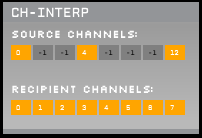
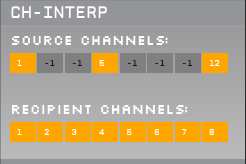
channel numbering now starts with 1

diff --git a/Source/ChInterpEditor.cpp b/Source/ChInterpEditor.cpp
@@ -13,84 +13,84 @@ ChInterpEditor::ChInterpEditor(GenericProcessor* parentNode, bool useDefaultPara
    ogChannel_label->setColour(Label::textColourId, Colours::white);
    addAndMakeVisible(ogChannel_label);
 
-   ogChannel_0 = new Label("Og Channel 0", "0");
+   ogChannel_0 = new Label("Og Channel 1", "1");
    ogChannel_0->setBounds(10,45,20,15);
    ogChannel_0->setFont(Font("Default", 8, Font::plain));
    ogChannel_0->setColour(Label::textColourId, Colours::white);
    ogChannel_0->setColour(Label::backgroundColourId, Colours::orange);
    ogChannel_0->setEditable(true);
    ogChannel_0->addListener(this);
-   ogChannel_0->setTooltip("Set the source channel 0 for interpolation");
+   ogChannel_0->setTooltip("Set the source channel 1 for interpolation");
    addAndMakeVisible(ogChannel_0);
 
-   ogChannel_1 = new Label("Og Channel 1", "-1");
+   ogChannel_1 = new Label("Og Channel 2", "-1");
    ogChannel_1->setBounds(32,45,20,15);
    ogChannel_1->setFont(Font("Default", 8, Font::plain));
    ogChannel_1->setColour(Label::textColourId, Colours::black);
    ogChannel_1->setColour(Label::backgroundColourId, Colours::grey);
    ogChannel_1->setEditable(true);
    ogChannel_1->addListener(this);
-   ogChannel_1->setTooltip("Set the source channel 1 for interpolation");
+   ogChannel_1->setTooltip("Set the source channel 2 for interpolation");
    addAndMakeVisible(ogChannel_1);
 
-   ogChannel_2 = new Label("Og Channel 2", "-1");
+   ogChannel_2 = new Label("Og Channel 3", "-1");
    ogChannel_2->setBounds(54,45,20,15);
    ogChannel_2->setFont(Font("Default", 8, Font::plain));
    ogChannel_2->setColour(Label::textColourId, Colours::black);
    ogChannel_2->setColour(Label::backgroundColourId, Colours::grey);
    ogChannel_2->setEditable(true);
    ogChannel_2->addListener(this);
-   ogChannel_2->setTooltip("Set the source channel 2 for interpolation");
+   ogChannel_2->setTooltip("Set the source channel 3 for interpolation");
    addAndMakeVisible(ogChannel_2);
 
-   ogChannel_3 = new Label("Og Channel 3", "3");
+   ogChannel_3 = new Label("Og Channel 4", "4");
    ogChannel_3->setBounds(76,45,20,15);
    ogChannel_3->setFont(Font("Default", 8, Font::plain));
    ogChannel_3->setColour(Label::textColourId, Colours::white);
    ogChannel_3->setColour(Label::backgroundColourId, Colours::orange);
    ogChannel_3->setEditable(true);
    ogChannel_3->addListener(this);
-   ogChannel_3->setTooltip("Set the source channel 1 for interpolation");
+   ogChannel_3->setTooltip("Set the source channel 4 for interpolation");
    addAndMakeVisible(ogChannel_3);
 
-   ogChannel_4 = new Label("Og Channel 4", "-1");
+   ogChannel_4 = new Label("Og Channel 5", "-1");
    ogChannel_4->setBounds(98,45,20,15);
    ogChannel_4->setFont(Font("Default", 8, Font::plain));
    ogChannel_4->setColour(Label::textColourId, Colours::black);
    ogChannel_4->setColour(Label::backgroundColourId, Colours::grey);
    ogChannel_4->setEditable(true);
    ogChannel_4->addListener(this);
-   ogChannel_4->setTooltip("Set the source channel 4 for interpolation");
+   ogChannel_4->setTooltip("Set the source channel 5 for interpolation");
    addAndMakeVisible(ogChannel_4);
 
-   ogChannel_5 = new Label("Og Channel 5", "-1");
+   ogChannel_5 = new Label("Og Channel 6", "-1");
    ogChannel_5->setBounds(120,45,20,15);
    ogChannel_5->setFont(Font("Default", 8, Font::plain));
    ogChannel_5->setColour(Label::textColourId, Colours::black);
    ogChannel_5->setColour(Label::backgroundColourId, Colours::grey);
    ogChannel_5->setEditable(true);
    ogChannel_5->addListener(this);
-   ogChannel_5->setTooltip("Set the source channel 5 for interpolation");
+   ogChannel_5->setTooltip("Set the source channel 6 for interpolation");
    addAndMakeVisible(ogChannel_5);
 
-   ogChannel_6 = new Label("Og Channel 6", "-1");
+   ogChannel_6 = new Label("Og Channel 7", "-1");
    ogChannel_6->setBounds(142,45,20,15);
    ogChannel_6->setFont(Font("Default", 8, Font::plain));
    ogChannel_6->setColour(Label::textColourId, Colours::black);
    ogChannel_6->setColour(Label::backgroundColourId, Colours::grey);
    ogChannel_6->setEditable(true);
    ogChannel_6->addListener(this);
-   ogChannel_6->setTooltip("Set the source channel 6 for interpolation");
+   ogChannel_6->setTooltip("Set the source channel 7 for interpolation");
    addAndMakeVisible(ogChannel_6);
 
-   ogChannel_7 = new Label("Og Channel 7", "7");
+   ogChannel_7 = new Label("Og Channel 8", "8");
    ogChannel_7->setBounds(164,45,20,15);
    ogChannel_7->setFont(Font("Default", 8, Font::plain));
    ogChannel_7->setColour(Label::textColourId, Colours::white);
    ogChannel_7->setColour(Label::backgroundColourId, Colours::orange);
    ogChannel_7->setEditable(true);
    ogChannel_7->addListener(this);
-   ogChannel_7->setTooltip("Set the source channel 7 for interpolation");
+   ogChannel_7->setTooltip("Set the source channel 8 for interpolation");
    addAndMakeVisible(ogChannel_7);
 
 
@@ -100,84 +100,84 @@ ChInterpEditor::ChInterpEditor(GenericProcessor* parentNode, bool useDefaultPara
    toChannel_label->setColour(Label::textColourId, Colours::white);
    addAndMakeVisible(toChannel_label);
 
-   toChannel_0 = new Label("To Channel 0", "0");
+   toChannel_0 = new Label("To Channel 1", "1");
    toChannel_0->setBounds(10,100,20,15);
    toChannel_0->setFont(Font("Default", 8, Font::plain));
    toChannel_0->setColour(Label::textColourId, Colours::white);
    toChannel_0->setColour(Label::backgroundColourId, Colours::orange);
    toChannel_0->setEditable(true);
    toChannel_0->addListener(this);
-   toChannel_0->setTooltip("Set the recipient channel 0 for interpolation");
+   toChannel_0->setTooltip("Set the recipient channel 1 for interpolation");
    addAndMakeVisible(toChannel_0);
 
-   toChannel_1 = new Label("To Channel 1", "1");
+   toChannel_1 = new Label("To Channel 2", "2");
    toChannel_1->setBounds(32,100,20,15);
    toChannel_1->setFont(Font("Default", 8, Font::plain));
    toChannel_1->setColour(Label::textColourId, Colours::white);
    toChannel_1->setColour(Label::backgroundColourId, Colours::orange);
    toChannel_1->setEditable(true);
    toChannel_1->addListener(this);
-   toChannel_1->setTooltip("Set the recipient channel 1 for interpolation");
+   toChannel_1->setTooltip("Set the recipient channel 2 for interpolation");
    addAndMakeVisible(toChannel_1);
 
-   toChannel_2 = new Label("To Channel 2", "2");
+   toChannel_2 = new Label("To Channel 3", "3");
    toChannel_2->setBounds(54,100,20,15);
    toChannel_2->setFont(Font("Default", 8, Font::plain));
    toChannel_2->setColour(Label::textColourId, Colours::white);
    toChannel_2->setColour(Label::backgroundColourId, Colours::orange);
    toChannel_2->setEditable(true);
    toChannel_2->addListener(this);
-   toChannel_2->setTooltip("Set the recipient channel 2 for interpolation");
+   toChannel_2->setTooltip("Set the recipient channel 3 for interpolation");
    addAndMakeVisible(toChannel_2);
 
-   toChannel_3 = new Label("To Channel 3", "3");
+   toChannel_3 = new Label("To Channel 4", "4");
    toChannel_3->setBounds(76,100,20,15);
    toChannel_3->setFont(Font("Default", 8, Font::plain));
    toChannel_3->setColour(Label::textColourId, Colours::white);
    toChannel_3->setColour(Label::backgroundColourId, Colours::orange);
    toChannel_3->setEditable(true);
    toChannel_3->addListener(this);
-   toChannel_3->setTooltip("Set the recipient channel 1 for interpolation");
+   toChannel_3->setTooltip("Set the recipient channel 4 for interpolation");
    addAndMakeVisible(toChannel_3);
 
-   toChannel_4 = new Label("To Channel 4", "4");
+   toChannel_4 = new Label("To Channel 5", "5");
    toChannel_4->setBounds(98,100,20,15);
    toChannel_4->setFont(Font("Default", 8, Font::plain));
    toChannel_4->setColour(Label::textColourId, Colours::white);
    toChannel_4->setColour(Label::backgroundColourId, Colours::orange);
    toChannel_4->setEditable(true);
    toChannel_4->addListener(this);
-   toChannel_4->setTooltip("Set the recipient channel 4 for interpolation");
+   toChannel_4->setTooltip("Set the recipient channel 5 for interpolation");
    addAndMakeVisible(toChannel_4);
 
-   toChannel_5 = new Label("To Channel 5", "5");
+   toChannel_5 = new Label("To Channel 6", "6");
    toChannel_5->setBounds(120,100,20,15);
    toChannel_5->setFont(Font("Default", 8, Font::plain));
    toChannel_5->setColour(Label::textColourId, Colours::white);
    toChannel_5->setColour(Label::backgroundColourId, Colours::orange);
    toChannel_5->setEditable(true);
    toChannel_5->addListener(this);
-   toChannel_5->setTooltip("Set the recipient channel 5 for interpolation");
+   toChannel_5->setTooltip("Set the recipient channel 6 for interpolation");
    addAndMakeVisible(toChannel_5);
 
-   toChannel_6 = new Label("To Channel 6", "6");
+   toChannel_6 = new Label("To Channel 7", "7");
    toChannel_6->setBounds(142,100,20,15);
    toChannel_6->setFont(Font("Default", 8, Font::plain));
    toChannel_6->setColour(Label::textColourId, Colours::white);
    toChannel_6->setColour(Label::backgroundColourId, Colours::orange);
    toChannel_6->setEditable(true);
    toChannel_6->addListener(this);
-   toChannel_6->setTooltip("Set the recipient channel 6 for interpolation");
+   toChannel_6->setTooltip("Set the recipient channel 7 for interpolation");
    addAndMakeVisible(toChannel_6);
 
-   toChannel_7 = new Label("To Channel 7", "7");
+   toChannel_7 = new Label("To Channel 8", "8");
    toChannel_7->setBounds(164,100,20,15);
    toChannel_7->setFont(Font("Default", 8, Font::plain));
    toChannel_7->setColour(Label::textColourId, Colours::white);
    toChannel_7->setColour(Label::backgroundColourId, Colours::orange);
    toChannel_7->setEditable(true);
    toChannel_7->addListener(this);
-   toChannel_7->setTooltip("Set the recipient channel 7 for interpolation");
+   toChannel_7->setTooltip("Set the recipient channel 8 for interpolation");
    addAndMakeVisible(toChannel_7);
 
 }
@@ -201,7 +201,7 @@ void ChInterpEditor::labelTextChanged(Label* label)
    //if change ogChannel
    if (label == ogChannel_0)
    {
-      if (requestedValue<0)
+      if (requestedValue<=0)
       {
          CoreServices::sendStatusMessage("Left most channel must be provided.");
          return;
@@ -234,7 +234,7 @@ void ChInterpEditor::labelTextChanged(Label* label)
    }
    else if (label == ogChannel_7)
    {      
-      if (requestedValue<0)
+      if (requestedValue<=0)
       {
          CoreServices::sendStatusMessage("Right most channel must be provided.");
          return;
@@ -244,7 +244,7 @@ void ChInterpEditor::labelTextChanged(Label* label)
    else
    {  
       Array<int> chans = getActiveChannels();
-      if (requestedValue<0)
+      if (requestedValue<=0)
       {
          CoreServices::sendStatusMessage("Recipient channel must be a valid number.");
          return;

diff --git a/Source/ChInterp.cpp b/Source/ChInterp.cpp
@@ -6,8 +6,8 @@ using namespace ChInterpSpace;
 //Change all names for the relevant ones, including "Processor Name"
 ChInterp::ChInterp() : GenericProcessor("Ch-interp")
 {
-	int og_channelArray[8] = {0,-1,-1,3,-1,-1,-1,7};
-	int to_channelArray[8] = {0,1,2,3,4,5,6,7};
+	int og_channelArray[8] = {1,-1,-1,4,-1,-1,-1,8};
+	int to_channelArray[8] = {1,2,3,4,5,6,7,8};
 
 }
 
@@ -69,20 +69,20 @@ void ChInterp::process(AudioSampleBuffer& buffer)
 
 	for (int ch=0; ch<8; ++ch)
 	{
-    	if (og_channelArray[ch]> -1) //if channel provided then just reallocate on new place
+    	if (og_channelArray[ch]> 0) //if channel provided then just reallocate on new place
     	{
-			int nSamples = getNumSamples(og_channelArray[ch]);
-			float* toPtr = buffer.getWritePointer(to_channelArray[ch]); //get pointer to new location
+			int nSamples = getNumSamples(og_channelArray[ch]-1);
+			float* toPtr = buffer.getWritePointer(to_channelArray[ch]-1); //get pointer to new location
 			for (int n = 0; n < nSamples; ++n)
 			{
-                const float sample = *channelBuffer.getReadPointer (og_channelArray[ch], n); //get value from old location
+                const float sample = *channelBuffer.getReadPointer (og_channelArray[ch]-1, n); //get value from old location
                 *(toPtr + n) = sample; //save value to new location
 			}
     	}
     	else //if channel not provided then interpolate
     	{
-			int nSamples = getNumSamples(to_channelArray[ch]);
-			float* toPtr = buffer.getWritePointer(to_channelArray[ch]); //get pointer to memory space to save the interpolated channel
+			int nSamples = getNumSamples(to_channelArray[ch]-1);
+			float* toPtr = buffer.getWritePointer(to_channelArray[ch]-1); //get pointer to memory space to save the interpolated channel
 
 			int left_ch = leftIndex(og_channelArray, ch); //get closest provided channel on the left
 			int right_ch = rightIndex(og_channelArray, ch); //get closest provided channel on the right
@@ -90,8 +90,8 @@ void ChInterp::process(AudioSampleBuffer& buffer)
 
 			for (int n=0; n<nSamples; ++n)
 			{
-                const float leftVal = *channelBuffer.getReadPointer (og_channelArray[left_ch], n); //get value of left channel
-                const float rightVal = *channelBuffer.getReadPointer (og_channelArray[right_ch], n); //get value of right channel
+                const float leftVal = *channelBuffer.getReadPointer (og_channelArray[left_ch]-1, n); //get value of left channel
+                const float rightVal = *channelBuffer.getReadPointer (og_channelArray[right_ch]-1, n); //get value of right channel
 				*(toPtr + n) = leftVal + ((ch - left_ch)/dist_ch)*(rightVal - leftVal); //compute weighted linear interpolation
 			}			
 

diff --git a/Source/ChInterp.h b/Source/ChInterp.h
@@ -79,8 +79,8 @@ namespace ChInterpSpace
 		int left_ch;
 		int right_ch;
 		float dist_ch;
-		int og_channelArray[8] = {0,-1,-1,3,-1,-1,-1,7};;
-		int to_channelArray[8] = {0,1,2,3,4,5,6,7};;
+		int og_channelArray[8] = {1,-1,-1,4,-1,-1,-1,8};;
+		int to_channelArray[8] = {1,2,3,4,5,6,7,8};;
 		AudioSampleBuffer channelBuffer;
 	};
 }

diff --git a/README.md b/README.md
@@ -16,14 +16,16 @@ For Windows:
 The plugin receives N channels as input (2<=N<=7), and interpolate the missing ones with a weighted linear approximation.
 
 ![CNN-ripple](ch-interp-plugin.png)
-- **Source Channels:** indicates the channels used as a source (>=0) and the desired interpolated ones (-1). Source channels (>=0) will be indicated in orange, whereas the ones that need to be interpolated must be indicated with a -1 (the box will turn grey).
+- **Source Channels:** indicates the channels used as a source (>=1) and the desired interpolated ones (-1). Source channels (>=1) will be indicated in orange, whereas the ones that need to be interpolated must be indicated with a -1 (the box will turn grey). Note that channel numbering starts at 1. 
 - **Recipient Channels:** indicates the channels where the source channels will be saved (one to one mapping). 
 
-For instance, in the image provided, the plugin takes channels (0,4,12) and uses them to interpolate the missing 5 channels (2 interpolations between 0&4, 3 interpolations between 4&12). The resulting 8 channels (3 provided, 5 interpolated) are saved in the 0-8 channels. 
+For instance, in the image provided, the plugin takes channels (1,5,12) and uses them to interpolate the missing 5 channels (2 interpolations between 1&5, 3 interpolations between 5&12). The resulting 8 channels (3 provided, 5 interpolated) are saved in the 1-8 channels. 
+
+Note that channels index refers to the practical order. If a Channel Map plugin is used to rearrange the channels, the new order is passed down to this plugin. That is, if a channel map is used to place channel 18 into the first (1) position, then if we want to access that channel for interpolation, we must refer to it in the source channels with index 1. 
 
 ## Compiling the plugin from source
 
-1. Clone this repository in the same directory where [`plugin-GUI`](https://github.com/open-ephys/plugin-GUI) is located.
+1. Clone this repository inside a folder `OEPlugins` in the same directory where [`plugin-GUI`](https://github.com/open-ephys/plugin-GUI) is located.
 3. Go to the `Build` directory (<ch_interp_path>/Build/) and execute to create the CMake project:
 
 For Linux:
@@ -35,7 +37,7 @@ make install
 
 For Windows:
 ```
-cmake -G "Visual Studio 16 2019" -A x64 -DCMAKE_CXX_FLAGS="/EHsc /utf-8" ..
+cmake -G "Visual Studio 16 2019" -A x64 ..
 ```
 Open Visual Studio 16 2019 and compile and install the solution (see notes below on how to install Visual Studio).
 
